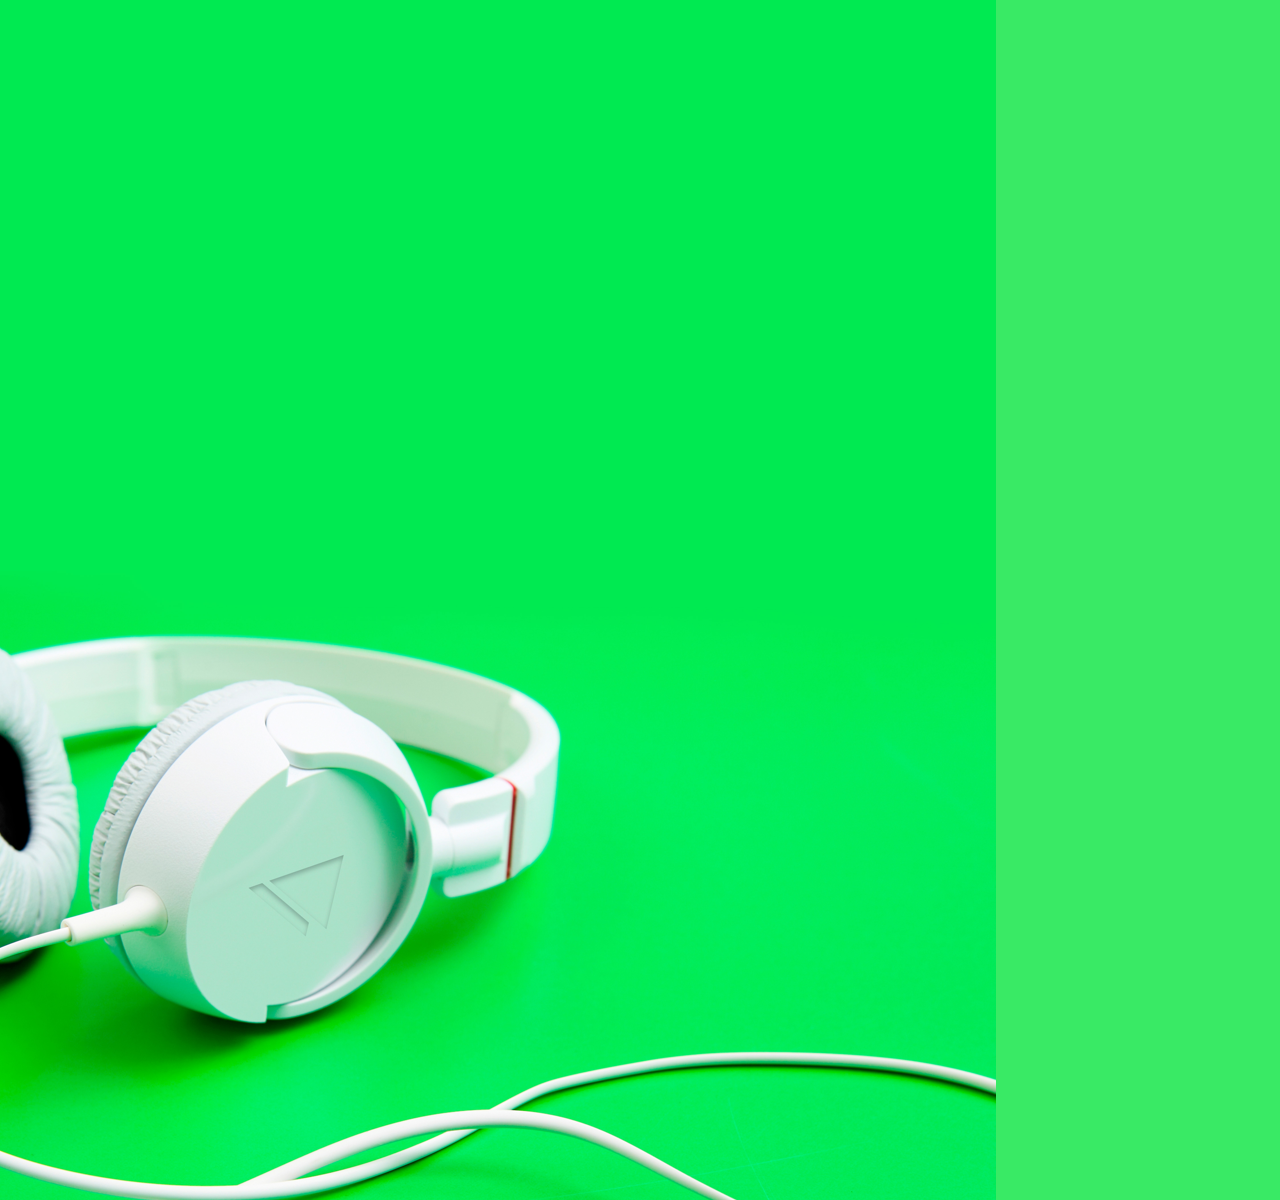
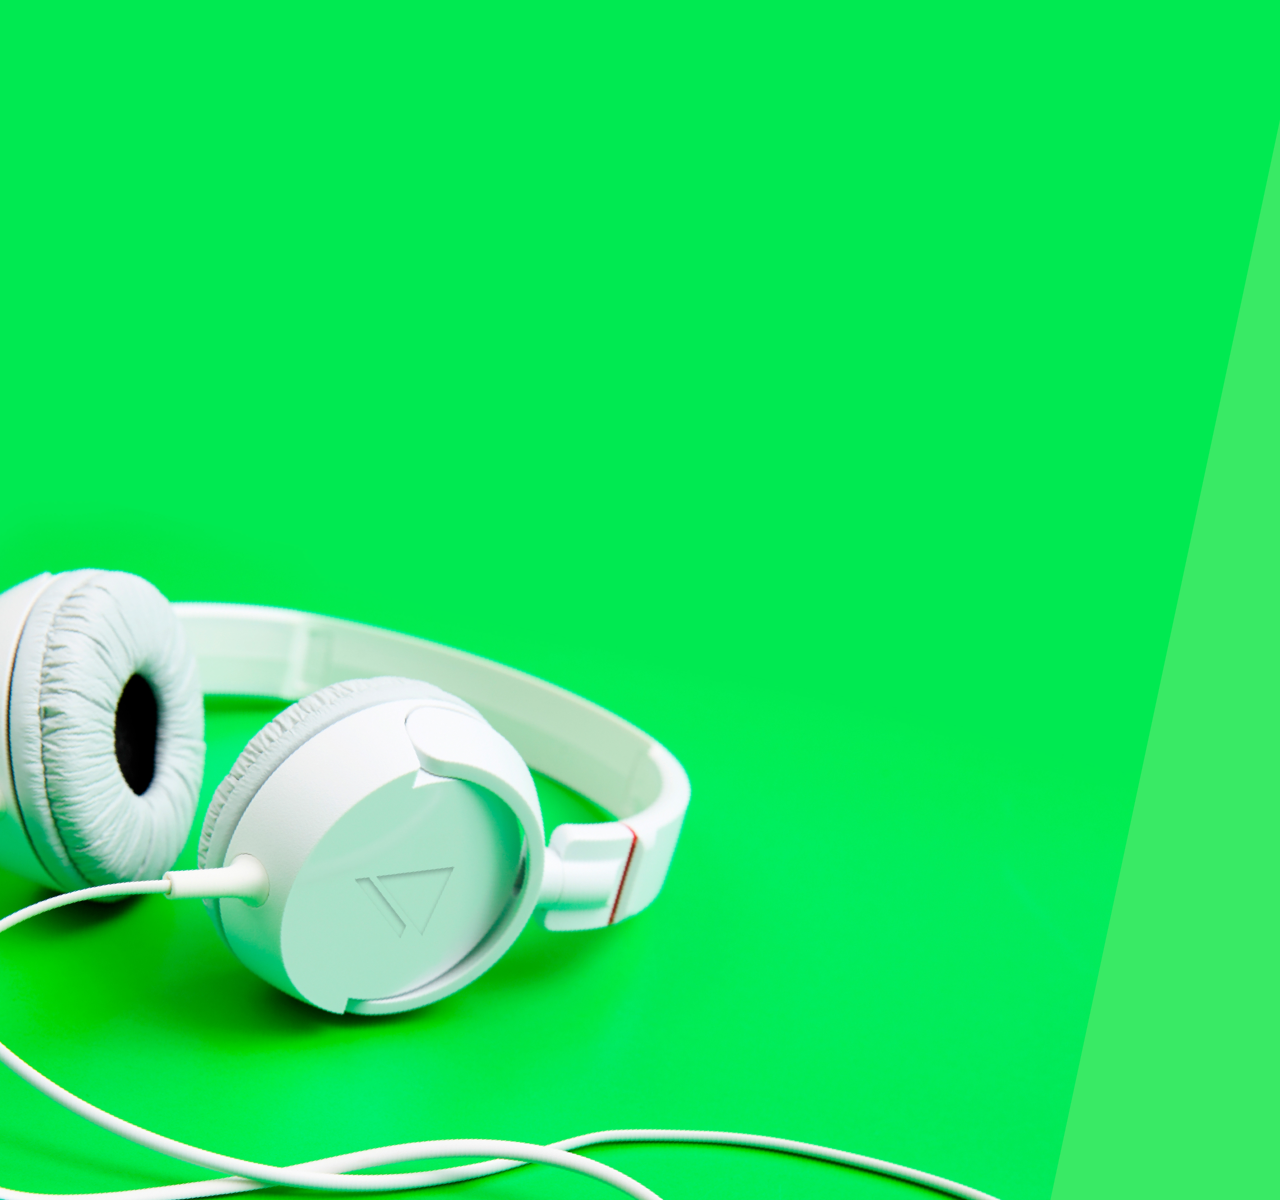
Rapiddo v3

diff --git a/rapiddo/resources/css/main.css b/rapiddo/resources/css/main.css
@@ -1,2 +1,2 @@
-@font-face{font-family:"Circular Std";font-style:normal;font-weight:300;src:url("../fonts/CircularStd-Book.woff") format("woff")}@font-face{font-family:"Circular Std";font-style:normal;font-weight:500;src:url("../fonts/CircularStd-Bold.woff") format("woff")}@font-face{font-family:"Circular Std";font-style:normal;font-weight:700;src:url("../fonts/CircularStd-Black.woff") format("woff")}*{border:0;margin:0;padding:0;list-style:none;outline:none}body{line-height:148%;font-family:"Circular Std",-apple-system,BlinkMacSystemFont,"Segoe UI",Roboto,"Helvetica Neue",Helvetica,Arial,sans-serif,"Apple Color Emoji","Segoe UI Emoji","Segoe UI Symbol";font-size:16px;font-weight:300;color:#383838}a,a:link{-webkit-transition:all ease-in-out .4s;-ms-transition:all ease-in-out .4s;-o-transition:all ease-in-out .4s;transition:all ease-in-out .4s;text-decoration:none}img{display:block}h2,h3,h4{font-weight:700}h2{line-height:116%;font-size:1.8em}h3,h4{line-height:124%;font-size:1.4em}h4{font-size:1.2em}strong,b{font-weight:500}.cta-button,button.cta-button{-webkit-border-radius:48px;-moz-border-radius:48px;border-radius:48px;display:block;background-color:#20B52B;width:200px;margin:16px auto;padding:12px;font-family:"Circular Std",-apple-system,BlinkMacSystemFont,"Segoe UI",Roboto,"Helvetica Neue",Helvetica,Arial,sans-serif,"Apple Color Emoji","Segoe UI Emoji","Segoe UI Symbol";font-size:1em;font-weight:500;color:#FFF;text-align:center;cursor:pointer}.cta-button:hover,.cta-button:active,button.cta-button:hover,button.cta-button:active{-webkit-box-shadow:0 2px 4px 0 rgba(55,71,79,0.48);-moz-box-shadow:0 2px 4px 0 rgba(55,71,79,0.48);box-shadow:0 2px 4px 0 rgba(55,71,79,0.48);background-color:#FF9800}.error{-webkit-border-radius:8px;-moz-border-radius:8px;border-radius:8px;display:none;background-color:#F6BAC1;margin-bottom:16px;padding:16px}header{position:relative;z-index:50;display:-webkit-box;display:-moz-box;display:-ms-flexbox;display:-webkit-flex;display:flex;flex-flow:row wrap;-webkit-box-shadow:0 1px 8px 0 rgba(32,32,32,0.12);-moz-box-shadow:0 1px 8px 0 rgba(32,32,32,0.12);box-shadow:0 1px 8px 0 rgba(32,32,32,0.12);padding:16px}header h1{text-indent:100%;white-space:nowrap;overflow:hidden;background-image:url("../img/logo.png");background-position:left center;background-repeat:no-repeat;background-size:contain;width:73px;height:24px;margin:auto}header .nav{display:-webkit-box;display:-moz-box;display:-ms-flexbox;display:-webkit-flex;display:flex;flex-flow:row nowrap;justify-content:space-between;width:100%;margin-top:8px}header .nav li{-webkit-transition:all ease-in-out .4s;-ms-transition:all ease-in-out .4s;-o-transition:all ease-in-out .4s;transition:all ease-in-out .4s;opacity:0.24;line-height:100%;font-size:11px;font-weight:500;text-transform:uppercase;cursor:pointer}header .nav li img{width:24px;height:24px;margin:8px auto}header .nav li:hover{opacity:0.72}header .nav li.active{opacity:1}.main>div{padding:24px 16px;text-align:center}.main .servicos{background-color:#383838;padding:24px 8px;color:#FFF}.main .servicos ul{display:-webkit-box;display:-moz-box;display:-ms-flexbox;display:-webkit-flex;display:flex;flex-flow:row wrap;justify-content:space-around;margin:16px auto 24%}.main .servicos ul li{width:33.33%;font-size:12px}.main .servicos ul li img{width:calc(100% - 32px);height:auto;margin:16px auto 8px}footer{position:fixed;z-index:100;bottom:0;background:linear-gradient(0deg, rgba(47,54,60,0.64), rgba(47,54,60,0));width:100%;padding-top:24px}.swiper-container{width:100%}.swiper-container .swiper-slide{background-position:left center;background-repeat:no-repeat;background-size:cover;min-height:calc(320px - 48px);cursor:pointer}.swiper-container .swiper-slide h2{padding:24px 24px 0 32%;text-align:right}.swiper-container .swiper-slide.food{background-image:url("../img/cover-food.png")}.swiper-container .swiper-slide.music{background-image:url("../img/cover-music.png")}.swiper-container .swiper-slide.tickets{background-image:url("../img/cover-tickets.png")}.swiper-container .swiper-slide.kids{background-image:url("../img/cover-kids.png")}.swiper-container .swiper-slide.recharge{background-image:url("../img/cover-recharge.png")}@media (min-width: 768px){body{font-size:24px}.cta-button,button.cta-button{width:32%;margin:4% auto;padding:16px;font-size:1em}header{padding:16px 24%}.slides .slides-view{height:calc(480px - 72px);padding:4% 24%}.main>div{padding:4% 24%}.main .servicos{padding:4%}.main .servicos ul{margin:2% auto 12%}.main .servicos ul li{width:20%;font-size:20px}.main .servicos ul li img{width:calc(72% - 16px)}}
+@font-face{font-family:"Circular Std";font-style:normal;font-weight:300;src:url("../fonts/CircularStd-Book.woff") format("woff")}@font-face{font-family:"Circular Std";font-style:normal;font-weight:500;src:url("../fonts/CircularStd-Bold.woff") format("woff")}@font-face{font-family:"Circular Std";font-style:normal;font-weight:700;src:url("../fonts/CircularStd-Black.woff") format("woff")}*{border:0;margin:0;padding:0;list-style:none;outline:none}body{line-height:148%;font-family:"Circular Std",-apple-system,BlinkMacSystemFont,"Segoe UI",Roboto,"Helvetica Neue",Helvetica,Arial,sans-serif,"Apple Color Emoji","Segoe UI Emoji","Segoe UI Symbol";font-size:16px;font-weight:300;color:#383838}a,a:link{-webkit-transition:all ease-in-out .4s;-ms-transition:all ease-in-out .4s;-o-transition:all ease-in-out .4s;transition:all ease-in-out .4s;text-decoration:none}img{display:block}h2,h3,h4{font-weight:700}h2{line-height:116%;font-size:1.8em}h3,h4{line-height:124%;font-size:1.4em}h4{font-size:1.2em}strong,b{font-weight:500}.cta-button,button.cta-button{-webkit-border-radius:48px;-moz-border-radius:48px;border-radius:48px;display:block;background-color:#20B52B;width:200px;margin:16px auto;padding:12px;font-family:"Circular Std",-apple-system,BlinkMacSystemFont,"Segoe UI",Roboto,"Helvetica Neue",Helvetica,Arial,sans-serif,"Apple Color Emoji","Segoe UI Emoji","Segoe UI Symbol";font-size:1em;font-weight:500;color:#FFF;text-align:center;cursor:pointer}.cta-button:hover,.cta-button:active,button.cta-button:hover,button.cta-button:active{-webkit-box-shadow:0 2px 4px 0 rgba(55,71,79,0.48);-moz-box-shadow:0 2px 4px 0 rgba(55,71,79,0.48);box-shadow:0 2px 4px 0 rgba(55,71,79,0.48);background-color:#FF9800}.error{-webkit-border-radius:8px;-moz-border-radius:8px;border-radius:8px;display:none;background-color:#F6BAC1;margin-bottom:16px;padding:16px}header{position:relative;z-index:50;display:-webkit-box;display:-moz-box;display:-ms-flexbox;display:-webkit-flex;display:flex;flex-flow:row wrap;-webkit-box-shadow:0 1px 8px 0 rgba(32,32,32,0.12);-moz-box-shadow:0 1px 8px 0 rgba(32,32,32,0.12);box-shadow:0 1px 8px 0 rgba(32,32,32,0.12);padding:16px}header h1{text-indent:100%;white-space:nowrap;overflow:hidden;background-image:url("../img/logo.png");background-position:left center;background-repeat:no-repeat;background-size:contain;width:73px;height:24px;margin:auto}header .nav{display:-webkit-box;display:-moz-box;display:-ms-flexbox;display:-webkit-flex;display:flex;flex-flow:row nowrap;justify-content:space-between;width:100%;margin-top:8px}header .nav li{-webkit-transition:all ease-in-out .4s;-ms-transition:all ease-in-out .4s;-o-transition:all ease-in-out .4s;transition:all ease-in-out .4s;opacity:0.24;line-height:100%;font-size:11px;font-weight:500;text-transform:uppercase;cursor:pointer}header .nav li img{width:24px;height:24px;margin:8px auto}header .nav li:hover{opacity:0.72}header .nav li.active{opacity:1}.main>div{padding:24px 16px;text-align:center}.main .servicos{background-color:#383838;padding:24px 8px;color:#FFF}.main .servicos ul{display:-webkit-box;display:-moz-box;display:-ms-flexbox;display:-webkit-flex;display:flex;flex-flow:row wrap;justify-content:space-around;margin:16px auto 24%}.main .servicos ul li{width:33.33%;font-size:12px}.main .servicos ul li img{width:calc(100% - 32px);height:auto;margin:16px auto 8px}footer{position:fixed;z-index:100;bottom:0;background:linear-gradient(0deg, rgba(47,54,60,0.64), rgba(47,54,60,0));width:100%;padding-top:24px}.swiper-container{width:100%}.swiper-container .swiper-slide{background-position:left center;background-repeat:no-repeat;background-size:cover;min-height:calc(320px - 48px);cursor:pointer}.swiper-container .swiper-slide h2{padding:24px 24px 0 32%;text-align:right}.swiper-container .swiper-slide.food{background-image:url("../img/cover-food.png")}.swiper-container .swiper-slide.music{background-image:url("../img/cover-music.png")}.swiper-container .swiper-slide.tickets{background-image:url("../img/cover-tickets.png")}.swiper-container .swiper-slide.kids{background-image:url("../img/cover-kids.png")}.swiper-container .swiper-slide.recharge{background-image:url("../img/cover-recharge.png")}.swiper-container .swiper-slide.tickets h2,.swiper-container .swiper-slide.music h2,.swiper-container .swiper-slide.kids h2{padding-left:16%}@media (min-width: 768px){body{font-size:24px}.cta-button,button.cta-button{width:32%;margin:4% auto;padding:16px;font-size:1em}header{padding:16px 24%}.slides .slides-view{height:calc(480px - 72px);padding:4% 24%}.main>div{padding:4% 24%}.main .servicos{padding:4%}.main .servicos ul{margin:2% auto 12%}.main .servicos ul li{width:20%;font-size:20px}.main .servicos ul li img{width:calc(72% - 16px)}}
 /*# sourceMappingURL=main.css.map */

diff --git a/rapiddo/index.html b/rapiddo/index.html
@@ -85,8 +85,8 @@
               autoHeight: true,
               watchSlidesVisibility: true,
               simulateTouch: true,
-              preventClicks: true,
-              autoplay: 3000
+              autoplay: 3000,
+              autoplayDisableOnInteraction: false
           })
       
           function toggleClass() {

diff --git a/rapiddo/resources/css/main.scss b/rapiddo/resources/css/main.scss
@@ -278,6 +278,12 @@ footer {
 		&.recharge {
 			background-image: url("../img/cover-recharge.png");
 		}
+
+		&.tickets, &.music, &.kids {
+			h2 {
+				padding-left: 16%;
+			}
+		}
 	}
 }
 
